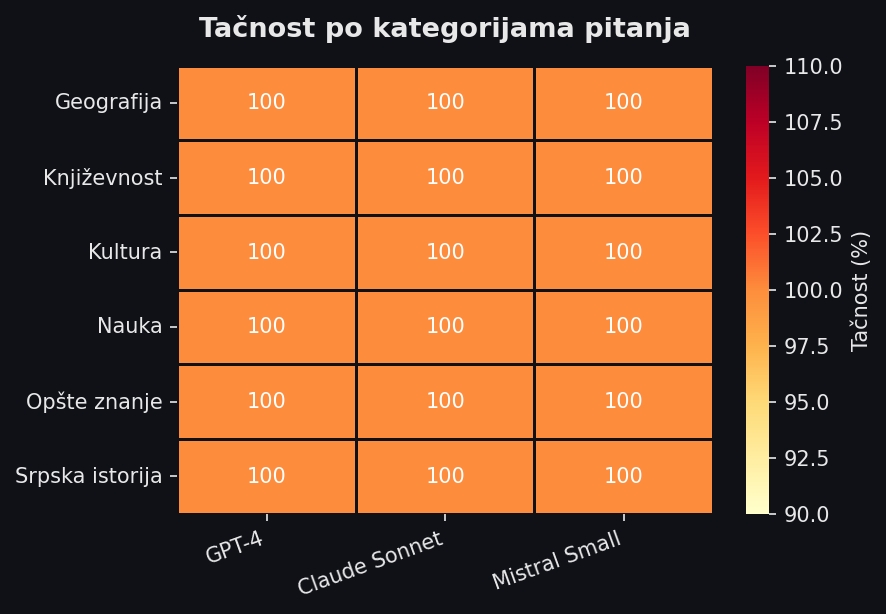
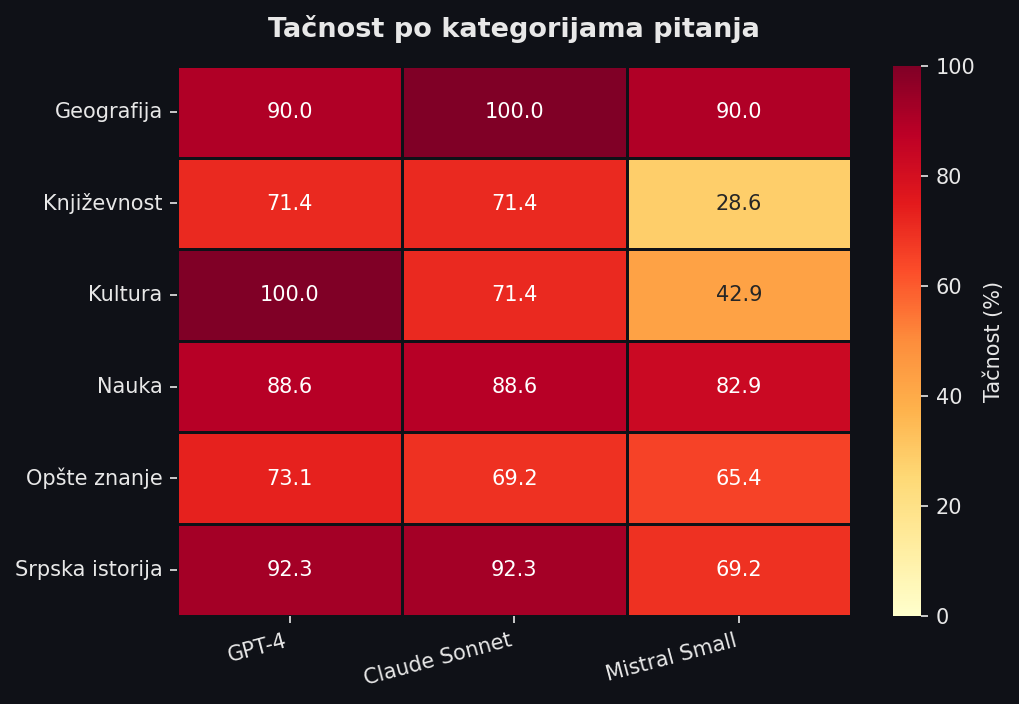
Korekcije charta i worda

diff --git a/pravi_chartove.py b/pravi_chartove.py
@@ -268,43 +268,76 @@ def chart_radar(sve_metrike: dict, naziv_fajla: str):
 
 
 def chart_heatmapa_kategorija(df_tacnost: pd.DataFrame,
-                               kolone_modela: dict, naziv_fajla: str):
-    """Heatmapa tačnosti po kategorijama."""
+                               kolone_modela: dict,
+                               naziv_fajla: str):
+    """Heatmapa tačnosti po kategorijama koristeći DA/NE kolone."""
+
     kat_col = None
     for c in df_tacnost.columns:
         if "kateg" in str(c).lower():
             kat_col = c
             break
 
-    if not kat_col or not kolone_modela:
-        print("  ⚠️  Nema kategorija za heatmapu.")
+    if not kat_col:
+        print("⚠️ Nema kolone za kategorije.")
         return
 
-    # Napravi matricu: kategorija × model
     matrica = {}
-    for naziv, col in kolone_modela.items():
-        if col not in df_tacnost.columns:
+
+    for naziv in kolone_modela.keys():
+
+        # Uzmi odgovarajuću DA/NE kolonu
+        da_ne_col = TACNOST_KOLONE.get(naziv)
+
+        if not da_ne_col or da_ne_col not in df_tacnost.columns:
             continue
-        grupe = df_tacnost.groupby(kat_col)[col].apply(
-            lambda x: (~x.dropna().astype(str).str.startswith("GREŠKA")).mean() * 100
+
+        grupe = df_tacnost.groupby(kat_col)[da_ne_col].apply(
+            lambda x: (
+                x.dropna()
+                 .astype(str)
+                 .str.strip()
+                 .str.upper()
+                 .eq("DA")
+                 .mean() * 100
+            )
         )
-        matrica[naziv] = grupe
+
+        matrica[naziv] = grupe.round(1)
 
     if not matrica:
+        print("⚠️ Nema podataka za heatmapu.")
         return
 
     df_mat = pd.DataFrame(matrica).fillna(0)
 
-    fig, ax = plt.subplots(figsize=(max(6, len(matrica) * 2), max(4, len(df_mat) * 0.7)))
-    sns.heatmap(df_mat, ax=ax, annot=True, fmt=".0f", cmap="YlOrRd",
-                linewidths=0.5, linecolor=BOJA_POZADINE,
-                cbar_kws={"label": "Tačnost (%)"})
+    fig, ax = plt.subplots(
+        figsize=(max(7, len(matrica) * 2.2),
+                 max(4, len(df_mat) * 0.8))
+    )
+
+    sns.heatmap(
+        df_mat,
+        ax=ax,
+        annot=True,
+        fmt=".1f",
+        cmap="YlOrRd",
+        vmin=0,
+        vmax=100,
+        linewidths=0.5,
+        linecolor=BOJA_POZADINE,
+        cbar_kws={"label": "Tačnost (%)"}
+    )
+
     ax.set_title("Tačnost po kategorijama pitanja", pad=14)
     ax.set_xlabel("")
     ax.set_ylabel("")
-    plt.xticks(rotation=20, ha="right")
+
+    plt.xticks(rotation=15, ha="right")
     plt.yticks(rotation=0)
+
     fig.tight_layout()
+
     sacuvaj(fig, naziv_fajla)
 
 